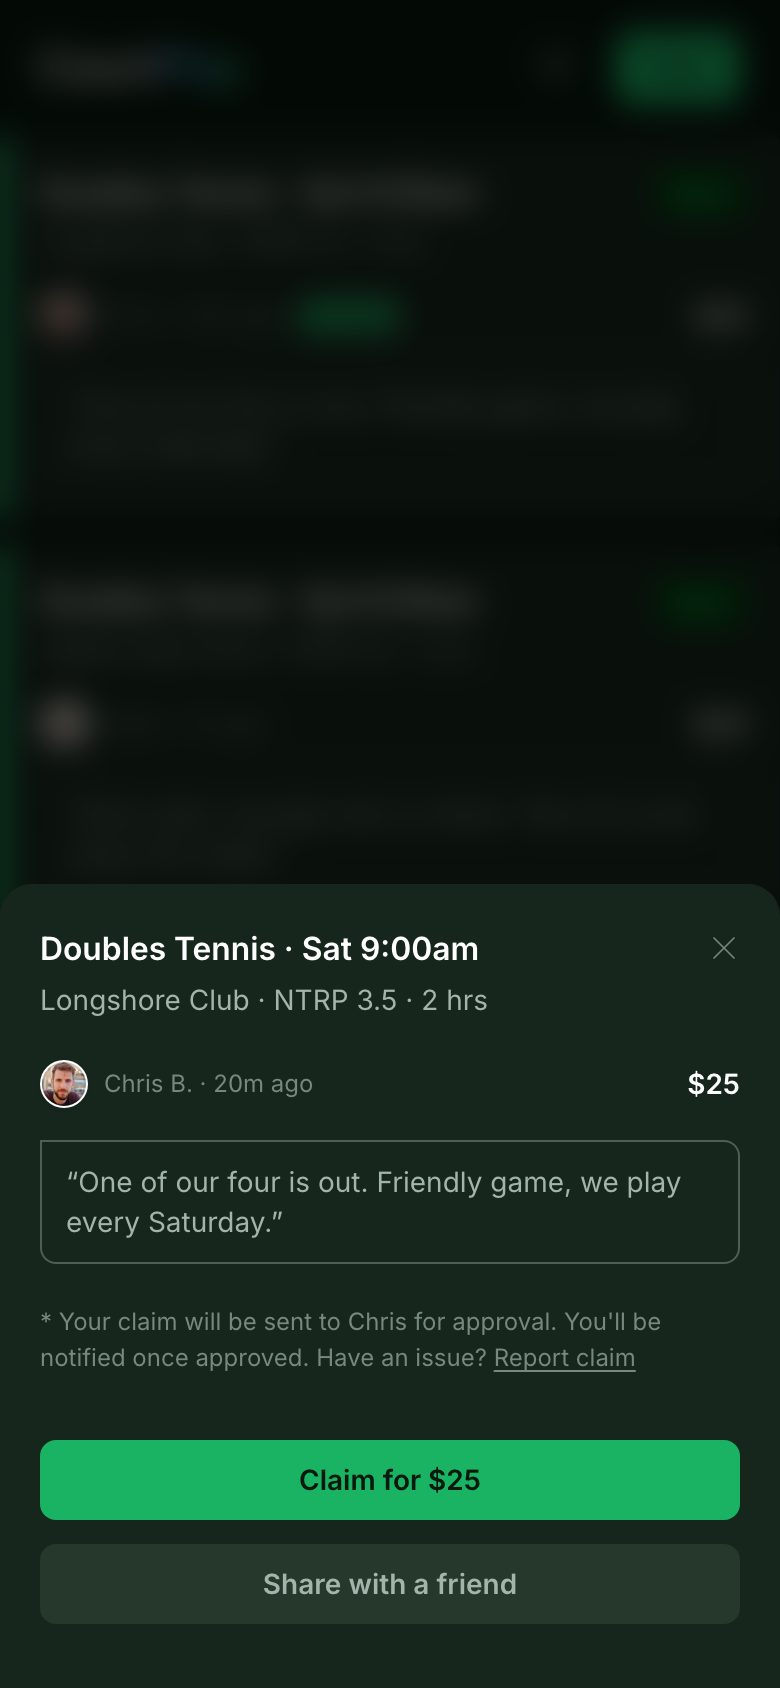
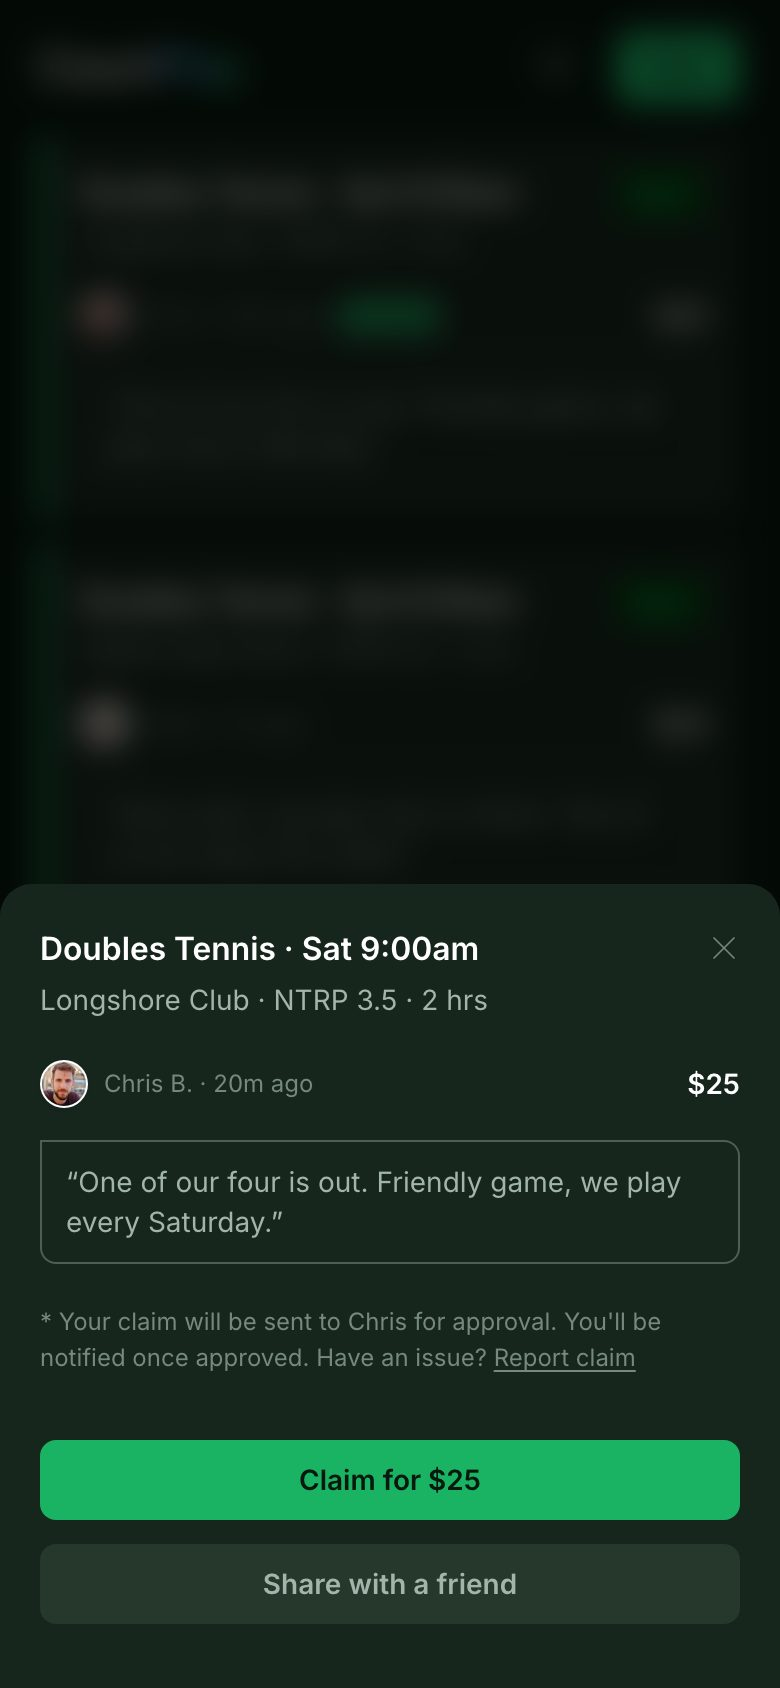
Stop the accent bars bleeding to the edge behind a sheet (#238)
A card's accent bar sits in the feed's 20px gutter, which is inside reach of
the sheet's 8px backdrop blur -- so it smeared out to the screen edge as a
coloured band. Blue when a regular-play card was back there, green once those
were swapped for subs.

Measured rather than eyeballed: the left edge of the blurred area was
rgb(10,37,22) against a neutral rgb(14,20,16) mid-screen. Inset by another
20px it is rgb(1,10,5), and the green cast at the edge now matches the
background. The bump that remains at x=40 is the bar itself inside a blurred
card, which is what it should look like.

The cards are unreadable at this blur; their job back there is texture.

Claude-Session: https://claude.ai/code/session_018r2oK9BRqUaW7Q9zLFLBPn

diff --git a/src/demo/screens.tsx b/src/demo/screens.tsx
@@ -30,13 +30,15 @@ const noop = () => {};
 /**
  * The feed behind a sheet: in the app every sheet opens over it.
  *
- * Sub cards only. A regular-play card's blue accent bar smears into a blue
- * gradient down the left edge once the backdrop blur hits it, which reads as a
- * rendering fault rather than as a card.
+ * Sub cards only, and inset. An accent bar sitting in the feed's 20px gutter is
+ * within reach of the sheet's 8px backdrop blur, so it smears out to the screen
+ * edge as a coloured band — blue for a regular-play card, green for a sub. The
+ * extra padding moves the bars out of that range. The cards are unreadable at
+ * this blur anyway; their job here is texture.
  */
 const FeedBehind = () => (
     <AppLayout onOpenFilters={noop}>
-        <div className="flex flex-col gap-3">
+        <div className="flex flex-col gap-3 px-5">
             <SubCard post={DEMO_SUB_POST} currentUserId={DEMO_VIEWER_ID} />
             <SubCard post={DEMO_BACKDROP_POST} currentUserId={DEMO_VIEWER_ID} />
             <SubCard post={DEMO_CLAIMED_POST} currentUserId={DEMO_VIEWER_ID} />
